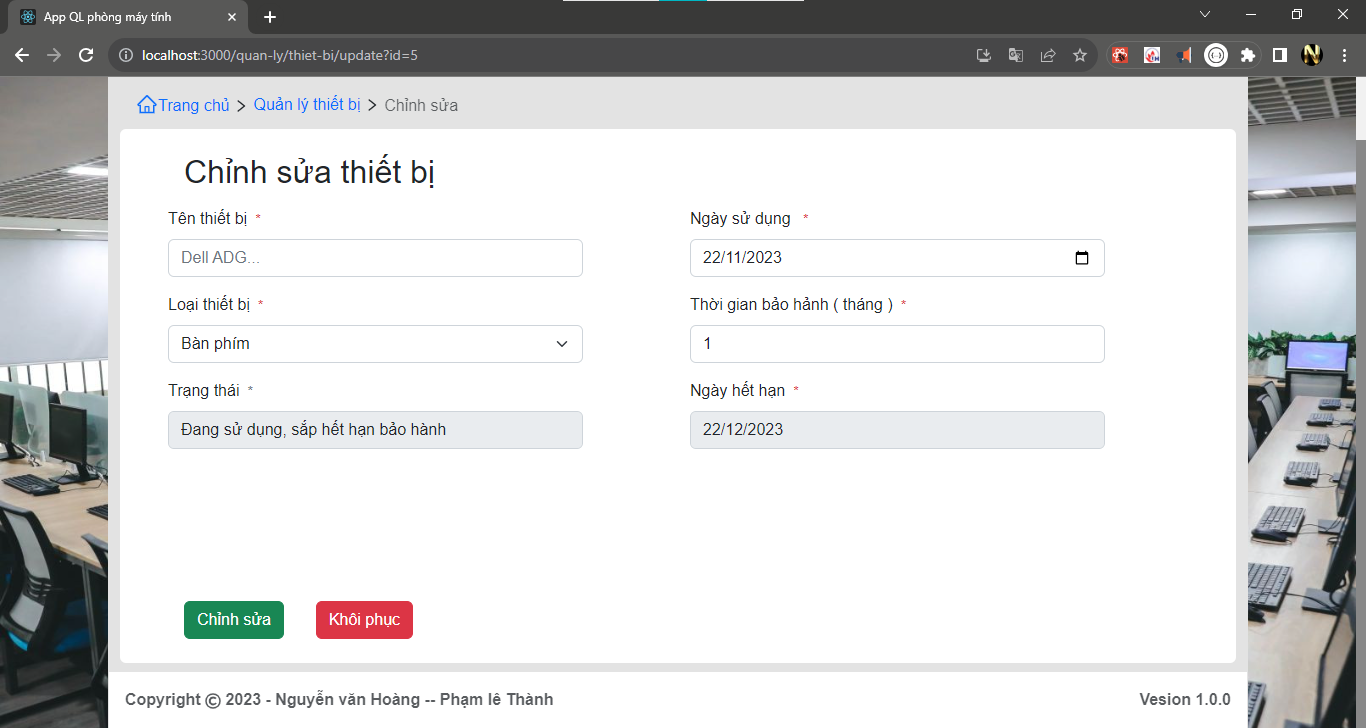
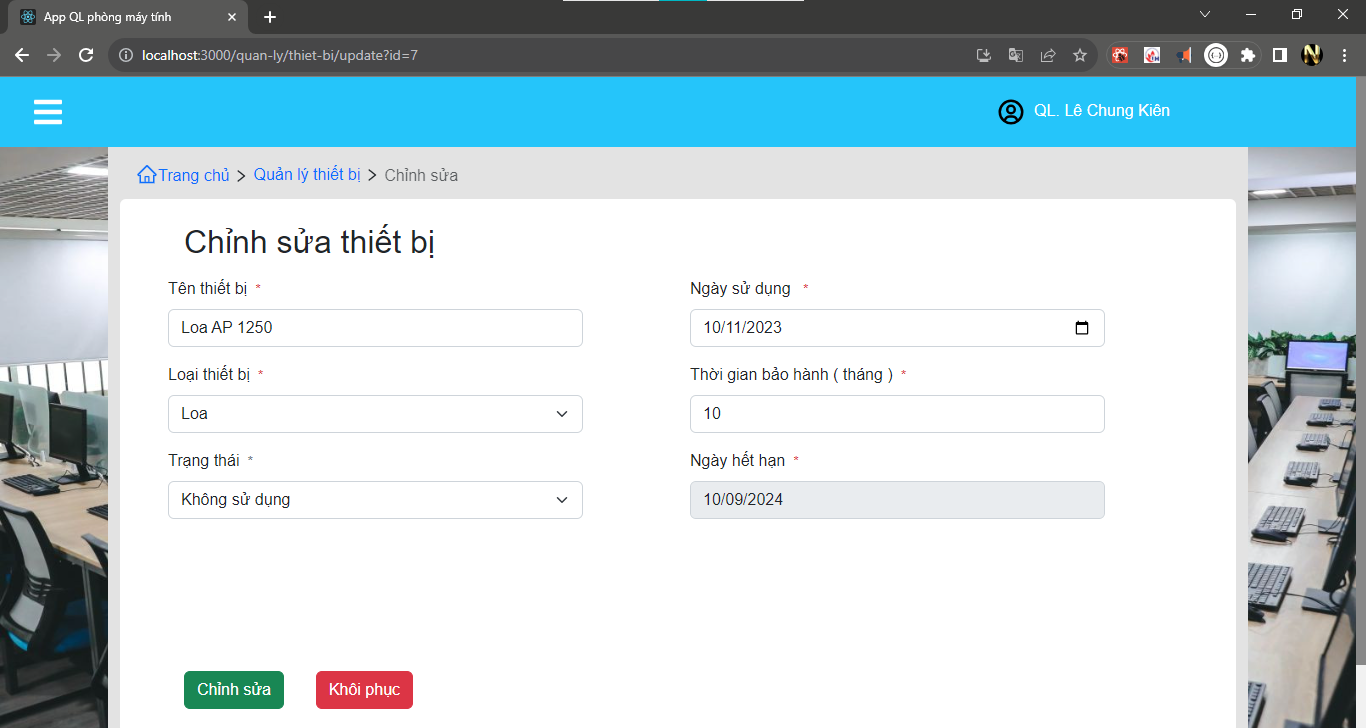
QlThietBi: finish update ThietBi api

diff --git a/src/components/layout/Edit/FormUpdateThietBi.jsx b/src/components/layout/Edit/FormUpdateThietBi.jsx
@@ -6,8 +6,10 @@ import {
   getAllLoaiThietBiApi,
   getAllThietBiApi,
   insertThietBiApi,
+  updateThietbiApi,
 } from "../../../redux/reducers/thietBiReducer";
 import { formatStringDate, formatStringDate2 } from "../../../util/config";
+import { useLocation, useNavigate } from "react-router-dom";
 
 let date = new Date();
 let dateYear = date.getFullYear();
@@ -18,16 +20,24 @@ let dateDay = date.getDate();
 let strDate = `${dateYear}-${dateMonth}-${dateDay}`;
 let strDateMin = `${dateYearMin}-${dateMonth}-${dateDay}`;
 
+let objData_old = {};
+
 export default function FormUpdateThietBi() {
   //
+  const navigate = useNavigate();
   const dispatch = useDispatch();
+  // nhan data gui theo uri
+  const location = useLocation();
+  const searchParams = new URLSearchParams(location.search);
+  const objParam = Object.fromEntries(searchParams);
+  //
   //
   let { arrLoaiTBi, arrThietBi } = useSelector((state) => state.thietBiReducer);
   let objThietBi = useRef({
     tenTBi: "",
     valSelLoaiTBi: 1,
     ngaySD: formatStringDate2(),
-    status: "Đang sử dụng",
+    status: true,
     tgianBaoHanh: 1,
     ngayKT: "00/00/0000",
   });
@@ -39,26 +49,38 @@ export default function FormUpdateThietBi() {
   });
   //
   useEffect(() => {
+    if (objParam.id == null) {
+      navigate("/quan-ly/giao-vien");
+    }
+    //
+    if (arrThietBi.length === 0) {
+      navigate("/quan-ly/thiet-bi");
+    } else {
+      objData_old = arrThietBi.find((item) => item.maThietBi == objParam.id);
+
+      let { tenThietBi, tuoiTho, ngayCaiDat, status, loaiThietBi } =
+        objData_old;
+
+      //
+      let ngayKT = new Date(ngayCaiDat);
+      ngayKT.setMonth(ngayKT.getMonth() + tuoiTho);
+
+      objThietBi.current = {
+        tenTBi: tenThietBi,
+        valSelLoaiTBi: loaiThietBi.maLoai,
+        ngaySD: formatStringDate2(new Date(ngayCaiDat)),
+        status,
+        tgianBaoHanh: tuoiTho,
+        ngayKT: formatStringDate(ngayKT),
+      };
+      //
+    }
+    //
     if (arrLoaiTBi.length === 0) {
       dispatch(getAllLoaiThietBiApi);
     }
     //
-    if (arrThietBi.length === 0) {
-      const action = getAllThietBiApi;
-      dispatch(action);
-    }
-    //
-    let { tgianBaoHanh, ngaySD } = objThietBi.current;
-    let { status, ngayKT } = getCheckTgianKT({ tgianBaoHanh, ngaySD });
 
-    objThietBi.current = {
-      tenTBi: "",
-      valSelLoaiTBi: 1,
-      ngaySD,
-      status,
-      tgianBaoHanh: 1,
-      ngayKT,
-    };
     setErrTBi({ ...errTbi });
   }, []);
 
@@ -72,20 +94,23 @@ export default function FormUpdateThietBi() {
     }
     // true
 
-    let { tenTBi, valSelLoaiTBi, ngaySD, tgianBaoHanh, ngayKT } =
+    let { tenTBi, valSelLoaiTBi, ngaySD, tgianBaoHanh, status, ngayKT } =
       objThietBi.current;
 
     let loaiThietBi = arrLoaiTBi.find((item) => item.maLoai == valSelLoaiTBi);
 
     let thietBiNew = {
+      maThietBi: objData_old.maThietBi,
       tenThietBi: tenTBi,
       tuoiTho: tgianBaoHanh,
       ngayCaiDat: new Date(ngaySD),
-      status: true,
+      status,
       loaiThietBi,
     };
     //
-    dispatch(insertThietBiApi(thietBiNew));
+    console.log(thietBiNew);
+
+    dispatch(updateThietbiApi(thietBiNew));
   };
   const checkData = () => {
     let check = 1;
@@ -105,7 +130,10 @@ export default function FormUpdateThietBi() {
     return check;
   };
   //
-
+  const handlgeChangeSelectStatus = (e) => {
+    objThietBi.current.status = e.target.value;
+  };
+  //
   const handleChangeTgianBH = (e) => {
     let value = e.target.value;
 
@@ -122,14 +150,13 @@ export default function FormUpdateThietBi() {
 
     let ngaySD = objThietBi.current.ngaySD;
     let tgianBaoHanh = parseInt(value);
-
-    let { status, ngayKT } = getCheckTgianKT({ tgianBaoHanh, ngaySD });
+    let ngayKT = new Date(ngaySD);
+    ngayKT.setMonth(ngayKT.getMonth() + tgianBaoHanh);
 
     objThietBi.current = {
       ...objThietBi.current,
       tgianBaoHanh,
-      status,
-      ngayKT,
+      ngayKT: formatStringDate(ngayKT),
     };
 
     setErrTBi({ ...errTbi, tgianBaoHanh: errTgianBH });
@@ -140,13 +167,13 @@ export default function FormUpdateThietBi() {
     let ngaySD = e.target.value;
 
     let tgianBaoHanh = objThietBi.current.tgianBaoHanh;
-    let { status, ngayKT } = getCheckTgianKT({ tgianBaoHanh, ngaySD });
+    let ngayKT = new Date(ngaySD);
+    ngayKT.setMonth(ngayKT.getMonth() + tgianBaoHanh);
 
     objThietBi.current = {
       ...objThietBi.current,
       ngaySD,
-      status,
-      ngayKT,
+      ngayKT: formatStringDate(ngayKT),
     };
 
     setErrTBi({ ...errTbi });
@@ -232,6 +259,7 @@ export default function FormUpdateThietBi() {
                           className="form-control"
                           name="tenTbi"
                           id="tenTbi"
+                          value={objThietBi.current.tenTBi}
                           onChange={handleChangeTenTbi}
                           aria-describedby="helpIdTenTbi"
                           placeholder="Dell ADG..."
@@ -266,12 +294,24 @@ export default function FormUpdateThietBi() {
                             *
                           </small>
                         </label>
-                        <input
-                          type="text"
-                          className="form-control"
-                          disabled
-                          value={objThietBi.current.status}
-                        />
+
+                        <select
+                          onChange={handlgeChangeSelectStatus}
+                          className="form-select"
+                        >
+                          <option
+                            selected={objThietBi.current.status ? 1 : 0}
+                            value={true}
+                          >
+                            Đang sử dụng
+                          </option>
+                          <option
+                            selected={objThietBi.current.status ? 0 : 1}
+                            value={false}
+                          >
+                            Không sử dụng
+                          </option>
+                        </select>
                       </div>
                     </div>
                     <div className="col-6">
@@ -303,7 +343,7 @@ export default function FormUpdateThietBi() {
                       {/* tgian bao hanh */}
                       <div className="mb-3 col-10">
                         <label htmlFor="txtTgianBaoHanh" className="form-label">
-                          Thời gian bảo hảnh ( tháng )
+                          Thời gian bảo hành ( tháng )
                           <small
                             id="helpIdtgian"
                             className="form-text text-danger mx-2"
@@ -355,15 +395,27 @@ export default function FormUpdateThietBi() {
                   <button
                     type="reset"
                     onClick={() => {
-                      objThietBi.current = {
-                        tenTBi: "",
-                        valSelLoaiTBi: "",
-                        ngaySD: date,
-                        status: true,
-                        tgianBaoHanh: 1,
-                        ngayKT: "00/00/0000",
-                      };
+                      let {
+                        tenThietBi,
+                        tuoiTho,
+                        ngayCaiDat,
+                        status,
+                        loaiThietBi,
+                      } = objData_old;
 
+                      //
+                      let ngayKT = new Date(ngayCaiDat);
+                      ngayKT.setMonth(ngayKT.getMonth() + tuoiTho);
+
+                      objThietBi.current = {
+                        tenTBi: tenThietBi,
+                        valSelLoaiTBi: loaiThietBi.maLoai,
+                        ngaySD: formatStringDate2(new Date(ngayCaiDat)),
+                        status,
+                        tgianBaoHanh: tuoiTho,
+                        ngayKT: formatStringDate(ngayKT),
+                      };
+                      //
                       setErrTBi({
                         tenTBi: "",
                         valSelLoaiTBi: "",
@@ -389,25 +441,3 @@ export default function FormUpdateThietBi() {
     </>
   );
 }
-
-const getCheckTgianKT = ({ tgianBaoHanh, ngaySD }) => {
-  let ngayKT = new Date(ngaySD);
-
-  ngayKT.setMonth(ngayKT.getMonth() + parseInt(tgianBaoHanh));
-
-  let status = "";
-  let day = new Date();
-  let day2 = new Date(ngayKT);
-
-  day2.setDate(day2.getDate() - 30); // day2 là tgian trước ngày kt 30 ngay
-
-  if (day > ngayKT) {
-    status = "Đang sử dụng - hết hạn bảo hành";
-  } else if (day > day2 && day < ngayKT) {
-    status = "Đang sử dụng, sắp hết hạn bảo hành";
-  } else {
-    status = "Đang sử dụng";
-  }
-
-  return { status, ngayKT: formatStringDate(ngayKT) };
-};

diff --git a/src/redux/reducers/thietBiReducer.jsx b/src/redux/reducers/thietBiReducer.jsx
@@ -159,6 +159,26 @@ const thietBiReducer = createSlice({
         valueSelectLoaiTBi
       );
     },
+    updateThietBiAction: (state, action) => {
+      let thietbi = action.payload;
+
+      let rowToChange = state.arrThietBi.findIndex(
+        (item) => item.maThietBi == thietbi.maThietBi
+      );
+      state.arrThietBi[rowToChange] = thietbi;
+
+      let arrdata = sortData_LoaiThietBi(state.arrThietBi);
+      state.arrThietBi = arrdata;
+      //
+      let { valueTxtSearch, arrThietBi, valSelect, valueSelectLoaiTBi } = state;
+
+      state.arrThietBiSearch = searchData(
+        arrThietBi,
+        valueTxtSearch,
+        valSelect,
+        valueSelectLoaiTBi
+      );
+    },
   },
 });
 // exp nay de sử dụng theo cách 2
@@ -169,10 +189,39 @@ export const {
   setValueSelectActionTBi,
   setValueSelectLoaiTbiAction,
   insertThietBiAction,
+  updateThietBiAction,
 } = thietBiReducer.actions;
 export default thietBiReducer.reducer;
 
 // -------------- Call Api -----------------
+
+/**
+ * edit 1 thiet bị api
+ * @param {object} thietBi
+ * @returns
+ */
+export const updateThietbiApi = (thietBi) => {
+  return async (dispatch) => {
+    try {
+      let result = await http.post("/LuuThietBiMay", thietBi);
+
+      dispatch(updateThietBiAction(result.data));
+
+      history.push("/quan-ly/thiet-bi");
+    } catch (error) {
+      console.log(
+        "🚀 ~ file: thietBiReducer.jsx:126 ~ returnasync ~ error:",
+        error
+      );
+    }
+  };
+};
+
+/**
+ * add 1 thiet bị api
+ * @param {object} thietBi
+ * @returns
+ */
 export const insertThietBiApi = (thietBi) => {
   return async (dispatch) => {
     try {

diff --git a/src/components/layout/Add/FormAddThietBi.jsx b/src/components/layout/Add/FormAddThietBi.jsx
@@ -303,7 +303,7 @@ export default function FormAddThietBi() {
                       {/* tgian bao hanh */}
                       <div className="mb-3 col-10">
                         <label htmlFor="txtTgianBaoHanh" className="form-label">
-                          Thời gian bảo hảnh ( tháng )
+                          Thời gian bảo hành ( tháng )
                           <small
                             id="helpIdtgian"
                             className="form-text text-danger mx-2"
